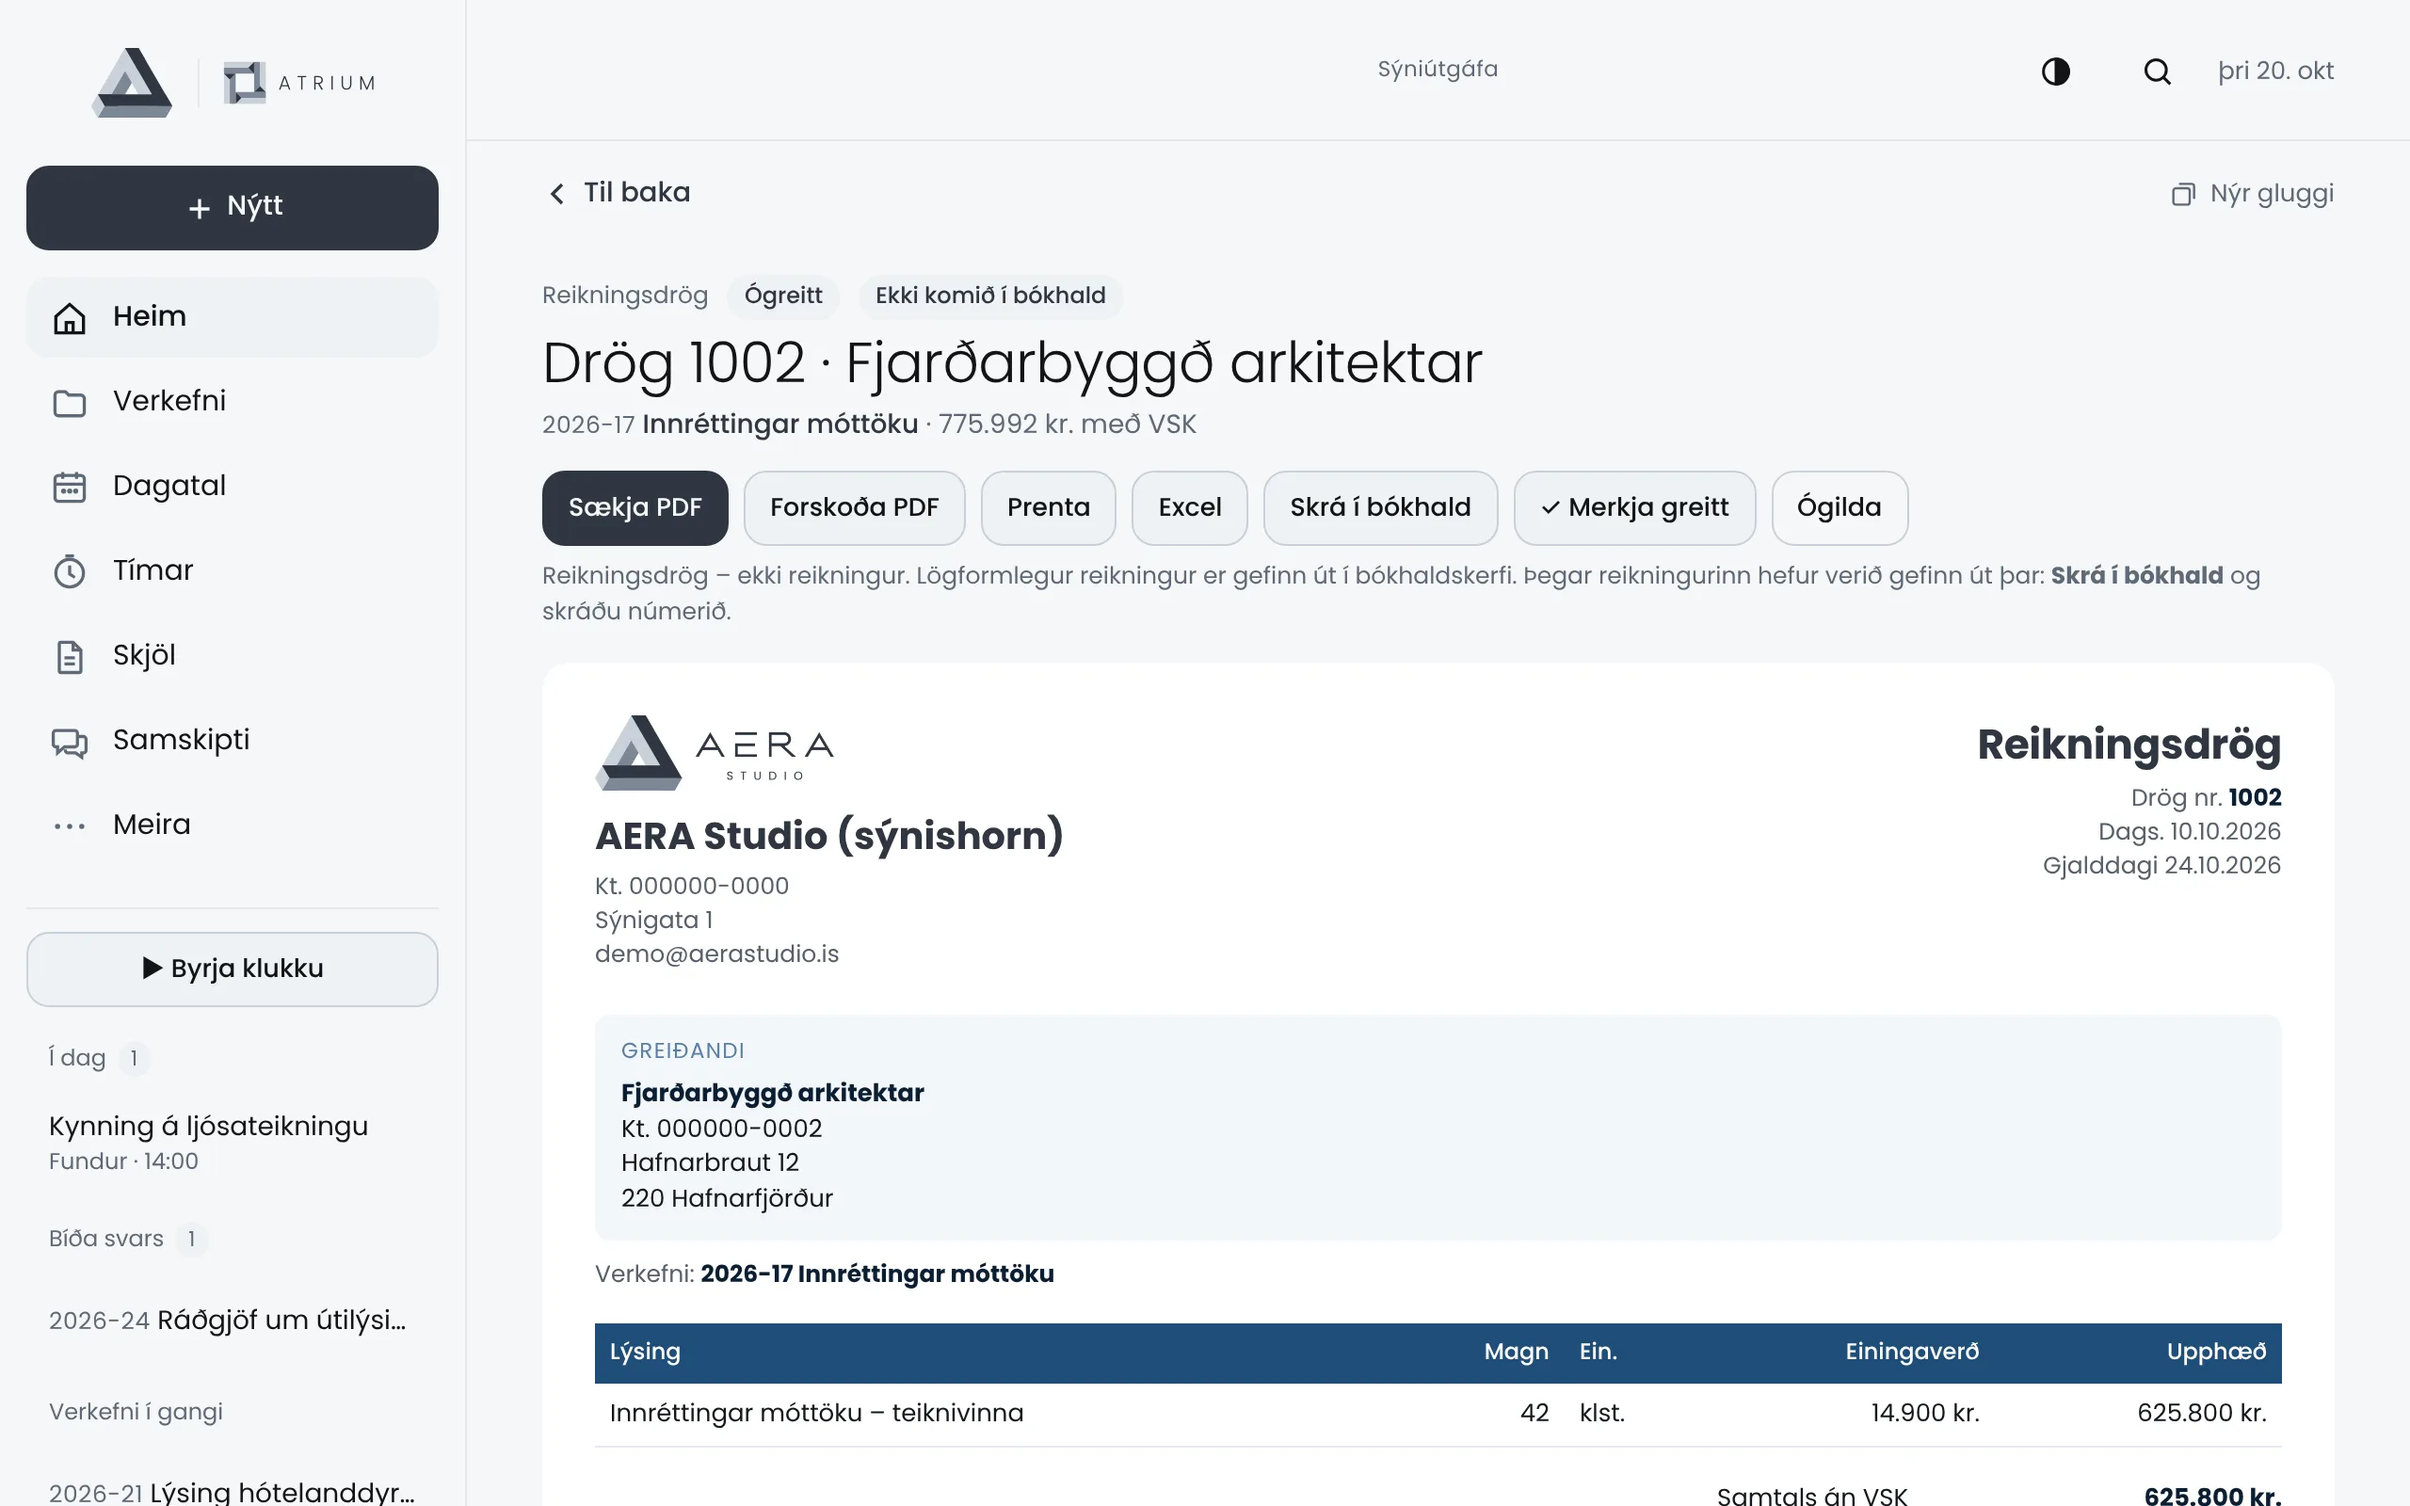
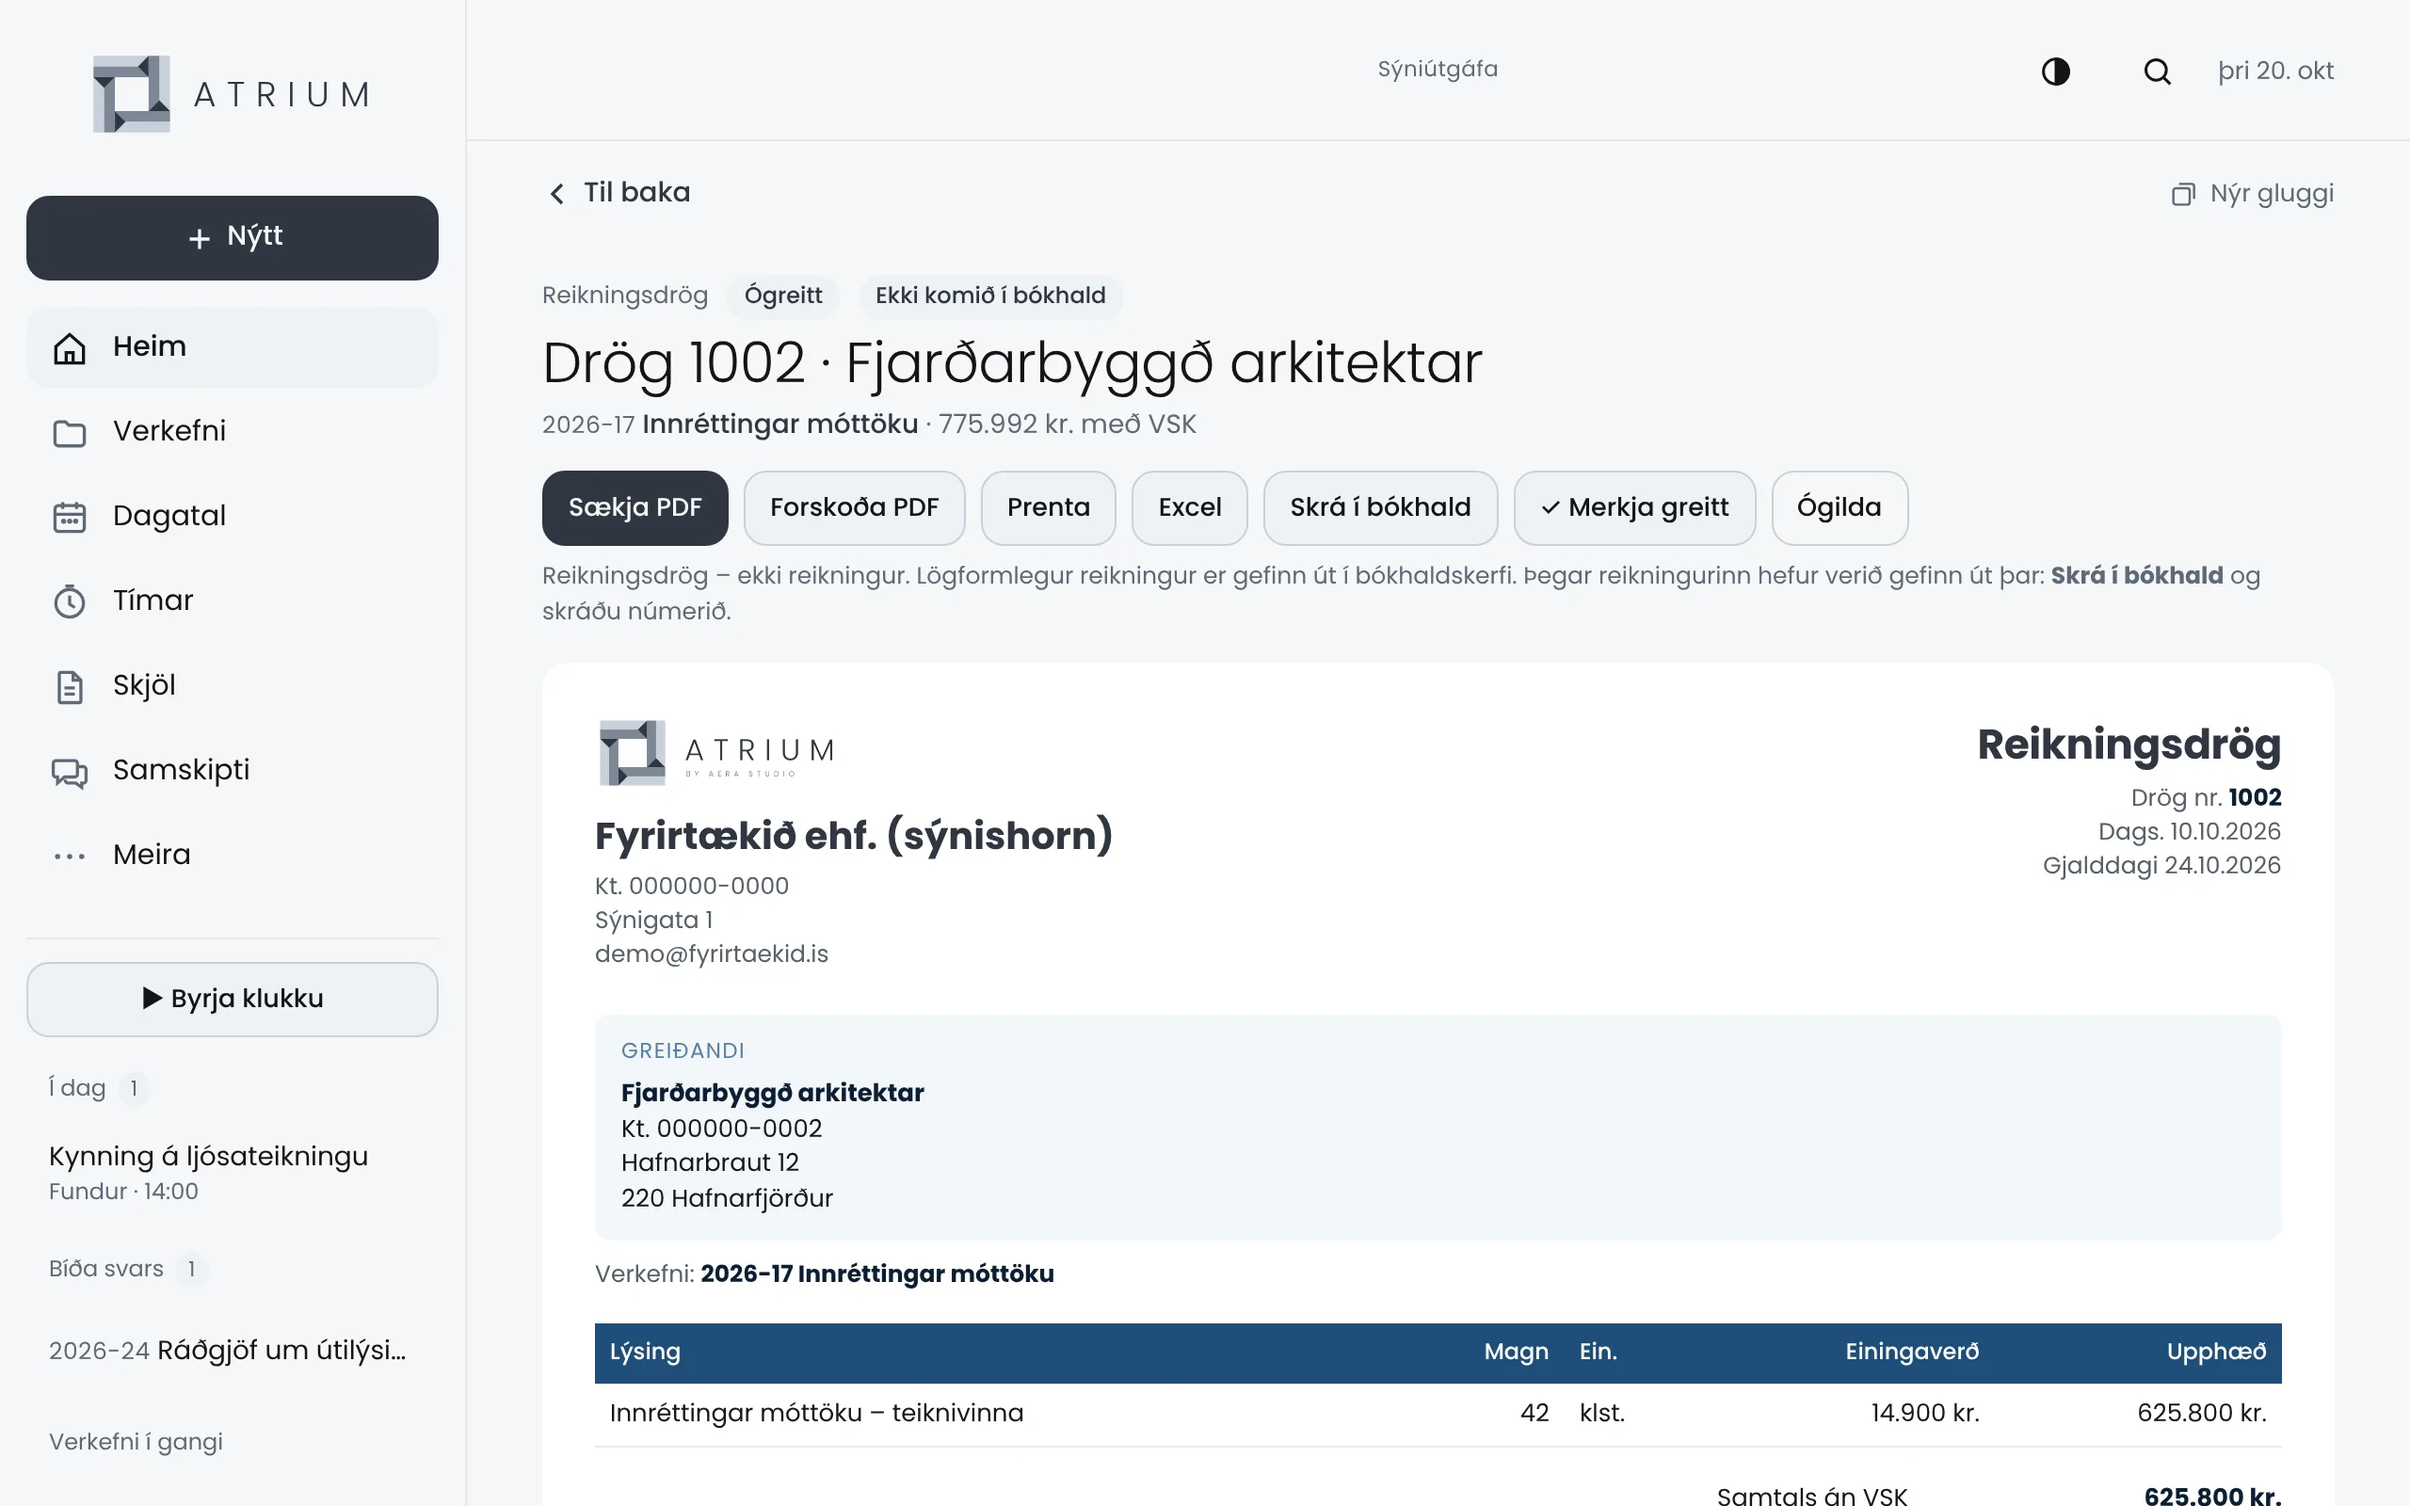
Vefsíða: allar myndir sýna hlutlaust Atrium (ekkert merki eða nafn fyrirtækja); app-tákn Atrium í stað tákna fyrirtækja
Claude-Session: https://claude.ai/code/session_01NhUccGStRqMU7uEcn4Gtag

diff --git a/index.html b/index.html
@@ -152,9 +152,9 @@ footer .lg{display:flex;gap:16px;margin-left:auto}footer a{text-decoration:none}
     <div class="tx rv"><div class="k">Fyrir þitt fyrirtæki</div><h2 style="margin-top:16px">Þitt eigið app.</h2>
       <p class="lead">Hvert fyrirtæki fær sína eigin uppsetningu af Atrium: sitt merki og liti, sitt app á heimaskjánum, sinn gagnagrunn og sína SharePoint-síðu.</p>
       <ul class="ch"><li>Merki fyrirtækisins við hlið Atrium – líka á tilboðum, reikningum og skýrslum</li><li>Gögn hvers fyrirtækis alveg aðskilin</li><li>Sama lausn og sömu uppfærslur fyrir alla</li></ul>
-      <div class="apps" style="margin-top:34px"><figure><img src="aera/icon-512.png" alt="" width="512" height="512"><figcaption>AERA Studio</figcaption></figure><figure><img src="sonik/icon-512.png" alt="" width="512" height="512"><figcaption>Sonik</figcaption></figure><figure><img src="party/icon-512.png" alt="" width="512" height="512"><figcaption>Party.is</figcaption></figure></div></div>
+      <div class="apps" style="margin-top:34px"><figure><img src="icons/atrium-icon-512.png" alt="" width="512" height="512"><figcaption>Atrium á heimaskjánum</figcaption></figure></div></div>
     <div class="two rv" style="grid-template-columns:1fr 1fr;max-width:560px;margin-left:auto">
-      <div class="frame" style="border-radius:28px"><img src="vefur/m-party.webp" alt="Atrium í síma – uppsetning party.is" width="780" height="1688" loading="lazy"></div>
+      <div class="frame" style="border-radius:28px"><img src="vefur/m-verk.webp" alt="Verkefni í síma" width="780" height="1688" loading="lazy"></div>
       <div class="frame" style="border-radius:28px;margin-top:60px"><img src="vefur/m-dagatal.webp" alt="Dagatal í síma" width="780" height="1688" loading="lazy"></div></div>
   </div>
 </div></section>
